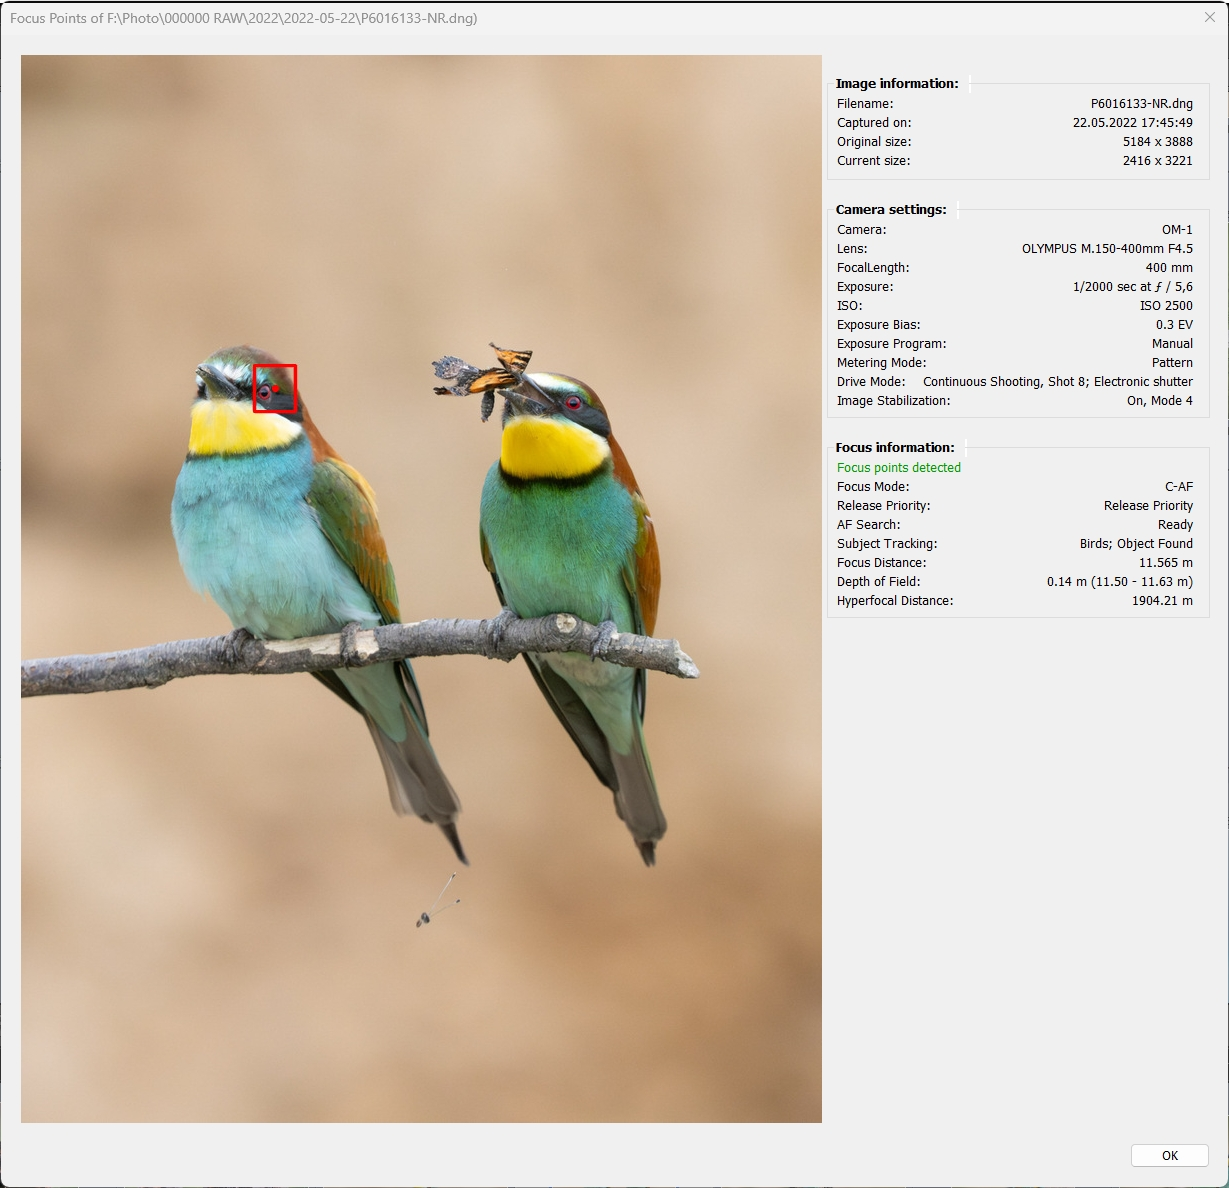
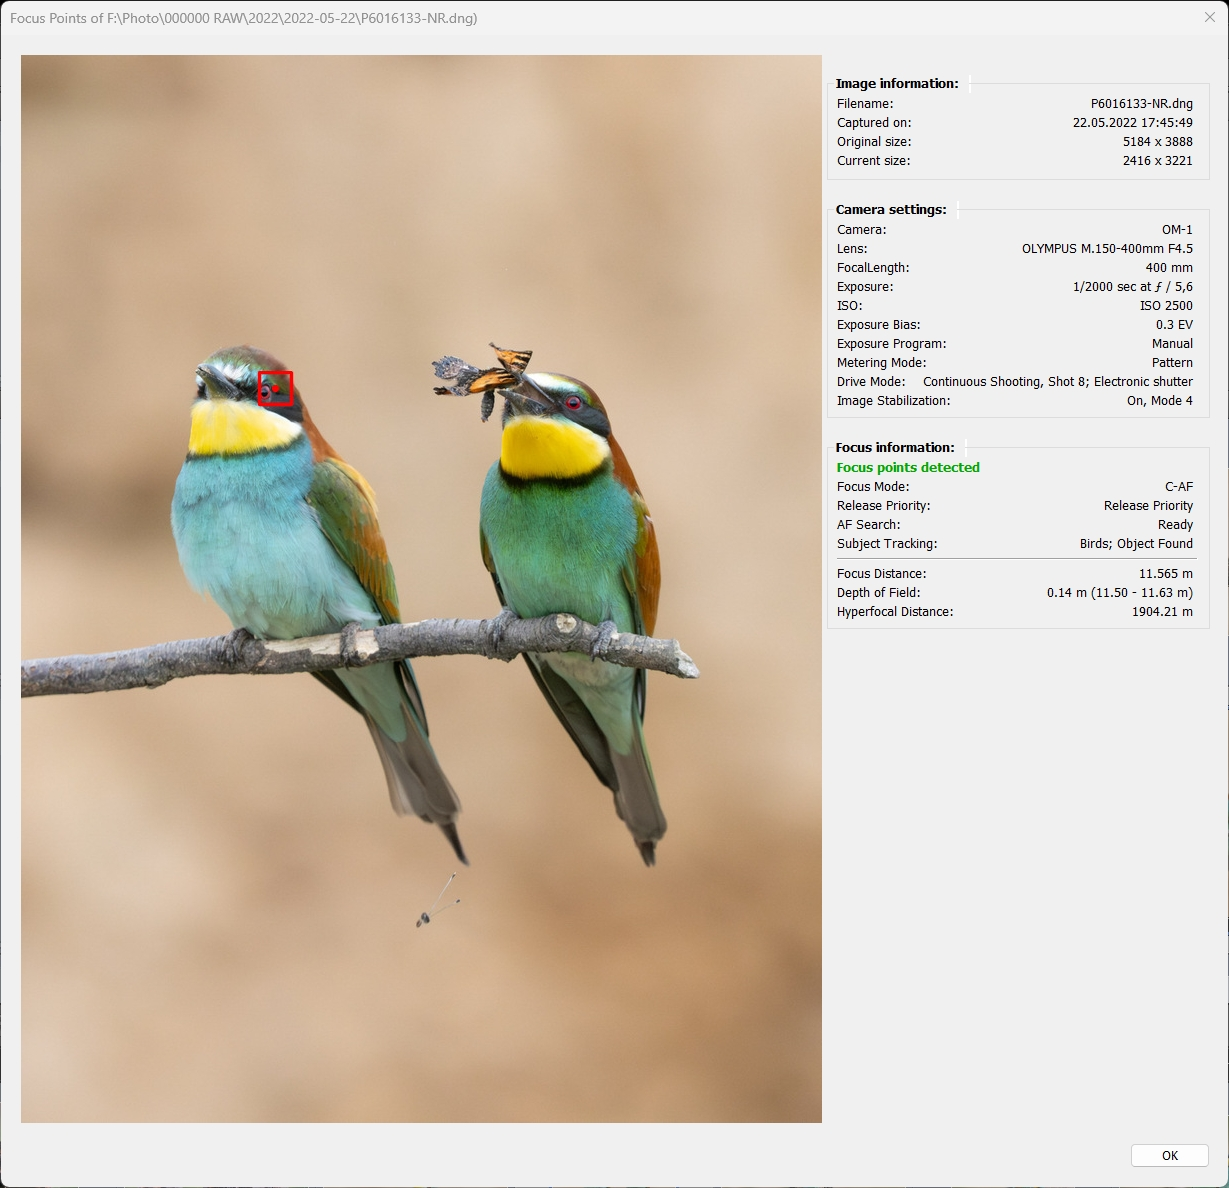
doc update

diff --git a/docs/Focus Points.md b/docs/Focus Points.md
@@ -8,34 +8,28 @@ A plugin for Lightroom Classic (LrC on Windows, macOS) to
 - display (EXIF) metadata of the selected image
 
 **Principle of operation:** <br>
-The plugin uses [exiftool](https://exiftool.org/) to retrieve metadata from the image file. 
-Autofocus related information is extracted from EXIF metadata and is processed to visualize the focus 
-points. In order for this to work, the plugin requires an image file that still has camera maker 
-specific metadata information (_makenotes_) included.
+The plugin uses [exiftool](https://exiftool.org/) to retrieve EXIF metadata from the image file. Autofocus related information is extracted from metadata and is processed to visualize the focus points. In order for this to work, the plugin requires an image file that has camera maker specific metadata information (_makenotes_) included.
 
 Note: exiftool comes as part of the plugin package and does not need to be installed separately. 
 
 The plugin will not be able to show focus points for image files that don't have makernotes included.<br> 
 For this it is important to understand that Lightroom does not read or keep makernotes when importing files.<br>
-Whenever a separate image file is created from the original, there is a risk that makernotes will not
-be present in this file and the plugin does not have the required inputs to work.
+Whenever a separate image file is created from the original file, there is a risk that makernotes will not be present in this file and the plugin does not have the required inputs to work.
 
 Examples, for which focus points cannot be displayed:
 - original image edited in Photoshop and returned as PSD or TIF
-- original image transferred as TIFF/JPG to a 3rd party editor, e.g. Topaz, NIK, Photomatix, Helicon
-- HDR DNG files created in Lightroom
+- original image transferred as TIFF/JPG to a 3rd party editor (Photo -> Edit In) and returned as TIF,<br> e.g. Topaz, NIK, Photomatix 
+- photos exported to harddisk
 
-For external applications that take a RAW file as input when started from Lightroom, 
-the plugin may work on the resulting file imported into Lightroom, if the application leaves makernotes 
-intact. 
+For external applications started from Lightroom that take a RAW file as input (invoked via  Plugin Extras), the plugin may work on the resulting file imported into Lightroom, if the application leaves makernotes intact. 
 
-Examples, for which focus point display works on image files created based on original files:  
+Examples, for which focus point display may work on image files created based on original files. Finally, this depends on the specific camera make/model:
 - DNG files created by DxO PhotoLab, Luminar Neo, Topaz Photo AI
 - DNG files created by LrC Enhance, e.g. AI Denoise
 
 Other cases where the Focus Points plugin will not be able to display meaningful information:
 
-* the picture has been taken by focusing on the main subject, then panning the camera to get the desired composition
+* the picture has been taken by focusing on the main subject, then panning the camera to get the desired composition.
 <br>
 
 ## 2. Overview and Basic Operation
@@ -51,131 +45,181 @@ Develop module:<br>
 "File -> Plug-in Extras -> Focus Point"<br>
 <br>
 <br>
-<b>User interface (single image operation):</b>
+#### User interface (single image operation): ####
 
 <img src="../screens/BasicOperation1.jpg" alt="User Interface (Single image)" style="width: 600px;"/>
 
-The window is split in two parts. The photo view with visualized focus points and display of selected 
-metadata information that is relevant for assessing the photo with respect to focus results.<br>
-The metadata section comprises three groups:
-- Image information (from LrC)
-- Camera settings (from LrC)
-- Focus information (from EXIF maker notes)
+The window is split in two parts. The photo view with visualized focus points on the left and side-by-side on the right the display of selected metadata relevant information that may be helpful for assessing the photo with respect to focus results.<br>
 
-As both image information and camera settings come from the LrC catalog, this information is present 
-for every photo. Focus information is only present for those photos where the corresponding image file
-has the full metadata. See [Scope and Limitations](docs/Focus%20Points.md) for more detailed information.
+The information section comprises three groups:
+- Image information
+- Camera settings
+- Focus information
 
-If focus information is present for the photo and focus points have been detected this is indicated by a message 
-highlighted in green.
+Parts of image information and camera settings come from the LrC catalog, so this information is present for every photo. These sections may be extended by camera specific items like crop mode, drive mode etc, depending on the availabity of information in makernotes.  
 
-In case focus information is missing or no focus points have been detected (e.g. for manually focused photos)
-this will be indicated by a message in red letters:
+Focus information is only present for those photos where the corresponding image file has full metadata included. See [Scope and Limitations](docs/Focus%20Points.md) for more detailed information.
+<br>
+<br>
+
+
+#### Depth of Field, Hyperfocal Distance ####
+Even though 'Depth of Field' and 'Hyperfocal Distance' are part of the "Focus Information" group, this information is displayed for most makers (except Fuji and Apple). The plugin displays this subsection always in the same format, that's why it's covered here.
+
+Most cameras include Focus Distance information in makernotes. ExifTool uses this information to calculate Depth of Field (DoF) which can be helpful to assess whether the lens has been stopped down enough to capture a subject 'acceptably sharp', i.e. whether the desired portion of the subject is 'in focus'. ExifTool also calculates Hyperfocal distance, which can help to assess if for photos that should be sharp from front to back (e.g. landscapes) autofocus has been aimed at a proper distance.
+
+Note that the precision of Focus Distance values is limited. Cameras are not designed to measure distances. The values given in EXIF data are by-products of the focusing process, derived from control information to send the lens to a certain distance. Such focus step counts can be converted approximately into a distance. While this information is likely to be  inaccurate especially in extreme conditions (in macro range or towards infinity), it is usually good enough to be used in DoF considerations for 'normal' distances.
+
+Technical note: ExifTool creates pseudo tags DepthOfField and HyperfocalDistance which can be seen in ExifTool output. For calculation of DoF it uses the standard circle of confusion parameter* for the respective sensor. In this context, the term “sharpness” refers to the ability of the human eye to recognize and resolve details when an image is viewed at full size, i.e. not enlarged, also known as “pixel peeping”. 
+
+Example: DoF in this capture is only ~2 cm, so with the chosen aperture of f/1.8 the eyes will be outside the sharp zone if the shot is focused on the front whiskers.
+
+<img src="../screens/BasicOperation5.jpg" alt="User Interface (Single image)" style="width: 600px;"/>
+
+
+<br>
+<br>
+
+#### User Messages ####
+
+If focus information is present for the photo and focus points have been detected this is indicated by a message highlighted in green.
+
+In case focus information is missing or no focus points have been detected (e.g. for manually focused photos) this will be indicated by a message in red letters:
 
 <img src="../screens/BasicOperation2.jpg" alt="User Interface (Single image)" style="width: 600px;"/>
 
 <img src="../screens/BasicOperation3.jpg" alt="User Interface (Single image)" style="width: 600px;"/>
 
-After the window is closed (by clicking "OK" or pressing \<Enter> or \<Esc>) the user is back in LrC UI.
+The window can be closed by clicking "OK" or pressing \<Enter> or \<Esc> or \<Space>.
 <br>
 <br>
 <b>User interface (multi-image operation):</b>
 
-When run on a selection of photos, the user interface of Focus Point Viewer offers two additional buttons
-that enable the user to move forwards and backwards within the series of selected photos.
+When run on a selection of photos, the user interface of Focus Point Viewer offers two additional buttons that enable the user to move forwards and backwards within the series of selected photos.
 
-The window can be closed by clicking "Exit" or pressing \<Enter> or \<Esc>.
+The window can be closed by clicking "Exit"  or pressing \<Enter> or \<Esc> or \<Space>.
 
 <img src="../screens/BasicOperation4.jpg" alt="User Interface (Multi-image)" style="width: 600px;"/>
+<br>
+<br>
 
 #### 2.1.1 Configuration and Settings
 
-Selecting Focus Point Viewer in the list of installed plugins display the plugin settings page:    
+Selecting Focus Point Viewer in the list of installed plugins (Library module, File -> Plug-in Manager) displays the plugin's preferences page:    
 
 <img src="../screens/Plugin Options.jpg" alt="User Interface (Single image)" style="width: 600px;"/>
 
+
 **Screen Scaling**
-Windows only: Select the display scaling factor. In order to avoid that the plugin window gets 
-bigger than the size of the screen this setting should be same or similar to the Windows configuration
-(Settings -> Display -> Scale). The default is 100%. 
+
+ _Display scaling factor_<br> 
+Windows only. In order to avoid that the plugin window can get bigger than the size of the screen this setting should be same or similar to the Windows configuration (Settings -> Display -> Scale). The default is 100%. 
 
 **Viewing Options**
 
-_Size of focus box for 'focus pixel' points_  
-Depending on the camera maker, focus points can have dimension (width and height), forming a focus box. 
-Some makers represent focus points by a single 'focus pixel'. To accomplish visibility, focus pixels will 
-be represented by a focus box. You can choose whether the box shall be small or medium/large with a center dot.  
+_Size of focus box for 'focus pixel' points_<br> 
+Depending on the camera maker, focus points can have dimension (width and height), thus forming a focus box. Some makers represent focus points by a single 'focus pixel'. To ensure their visibility, such focus pixel points are represented by a focus box. You can choose whether the box shall be small or medium/large with a center dot.
 
-_Color of in-focus points_  
-You can choose between three different colors for the presentation of focus point boxes: red, green and blue.
+_Color of in-focus points_<br> You can choose between three different colors for the presentation of focus point boxes: red, green and blue.
 
 **Logging**
-In case the plugin doesn't work as expected, the progress can be logged to help pinpointing where things went
-wrong. Use these controls to set the logging level (Info, Warning, Error, Debug) and open a log file that 
-has just been created.
+
+In case the plugin doesn't work as expected, the progress can be logged to help pinpointing where things went wrong. Use these controls to set the logging level (Info, Warning, Error, Debug) and open a log file that has just been created.
 
 
 ### 2.2 Metadata Viewer
-to be documented
+Will be documented later
 
 ## 3. Display of Focus Points
-The subchapters in this section describe in more detail which focus point features are supported by the plugin for individual camera makers and specific lines or models. This can be different colors for different statuses (e.g. focus point selected, in focus, inactive), or face/subject detection frames. The level to which features can be supported ultimately depends on the availability of corresponding data in EXIF maker notes.
+The subchapters in this section describe in more detail which focus point features are supported by the plugin for individual camera makers and specific lines or models. This can be different colors for different statuses (e.g. focus point selected, in focus, inactive), or face/subject detection frames. The level to which such features can be supported ultimately depends on the availability of corresponding data in EXIF maker notes.
 
 Even if certain data is stored by a camera maker it doesn't mean at the same time that it's "available". 
-Makernotes is a proprietary metadata section that contains manufacturer-specific information that is not standardized across different brands. Camera makers can use this information to diagnose camera issues, for instance.
+_Makernotes_ is a proprietary metadata section that contains manufacturer-specific information that is not standardized across different brands. Camera makers can use this information to diagnose camera issues, for instance.
 
-The Focus Points plugin fully relies on what [exiftool](https://exiftool.org/) is able to decode and display. Which in turn doesn't fall from the sky, but it's a collaborative effort by camera owners worlwide that are willing to contribute and [go where no man has gone before](https://exiftool.org/#boldly) and decode the unknown.      
+The Focus Points plugin fully relies on what [ExifTool](https://exiftool.org/) is able to decode and display. Which in turn doesn't fall from the sky, but it's a collaborative effort by camera owners worlwide that are willing to contribute and [go where no man has gone before](https://exiftool.org/#boldly) and decode the unknown.      
 
 ## 3.1 Nikon
 
-The logic for interpreting Nikon-specific autofocus data has been adapted to match the focus point display 
-of NX Studio and Capture NX-D. While this is not rocket science for Nikon Z, it has been a challenge for Nikon 
-DSLRs. Nikon used to store different kind of focus point information in different places, making it difficult
-for the people maintaining exiftool to figure out the relevant information and name it consistently.
-I would like to take this opportunity to thank Warren Hatch for his great support in deciphering and correctly
-interpreting the Nikon AF information! 
+The logic for interpreting Nikon-specific autofocus data has been adapted to match the focus point display of NX Studio and Capture NX-D. While this is not rocket science for Nikon Z, it has been a real challenge for Nikon DSLRs. For these, Nikon stores different kind of focus point information in different places, making it difficult for those maintaining ExifTool to figure out the relevant information and name it consistently. I would like to take this opportunity to thank Warren Hatch for his great support in deciphering and correctly interpreting the Nikon AF information! 
+
+Nikon focus point information in EXIF metadata always refer to an area within the frame. For CAF results these are the coordinates (x,y, height, width). For PDAF results it's the name(s) of focus points (e.g. A1, C6, E4), which the plugin maps to the corresponding pixel coordinates. 
+
+Hence, for Nikon focus points, you can select the color of the box but not their size.
+
+Nikon metadata does not include details on face or subject detection, that's why you won't see any corresponding detection frames. This does not mean that this information is not existing in the file - it simply has not been decoded yet by maintainers and active supporters of ExifTool.
+
 
 ### 3.1.1 Nikon DSLR
 
 Nikon DSLRs usually feature two autofocus systems. A high performance phase detect autofocus (PDAF) and
 a slower contrast autofocus when using live view.
 
-Position and size of PDAF focus points are determined by the individual sensor AF layout of the camera model.
-PDAF points cover only a portion of the frame. For DSLRs with their limited focus coverage, the entire matrix
-of focus points is visualized along with the in-focus point.
+Position and size of PDAF focus points are determined by the individual sensor AF layout of the camera model. PDAF points cover only a portion of the frame. For DSLRs with their limited focus coverage, the entire matrix of focus points is visualized along with the in-focus point.
 
-Single Area shot:
+Example - Single Area shot:
 
 <img src="../screens/Nikon 1.jpg" alt="User Interface (Multi-image)" style="width: 800px;"/>
 
-Group Area shot:
+Example - Group Area shot:
 
 <img src="../screens/Nikon 3.jpg" alt="User Interface (Multi-image)" style="width: 800px;"/>
 
-For Contrast AF, the size of the focus "point" (it's usually rather a big box) varies, depending on the shooting
-conditions:
+For Contrast AF, the size of the focus "point" is a larger box that varies, depending on the shooting conditions:
 
 <img src="../screens/Nikon 2.jpg" alt="User Interface (Multi-image)" style="width: 800px;"/>
 
 
 ### 3.1.2 Nikon Mirrorless
 
-Nikon Mirrorless cameras feature a hybrid autofocus system, where PDAF and CAF cooperate to achieve fast and 
-precise focus. While earlier models like the Z6 produced a fair amount of images with PDAF results, those
-images become rare in modern cameras like the Z9, with CAF technology getting more capable.
+Nikon Mirrorless cameras feature a hybrid autofocus system, where PDAF and CAF cooperate to achieve fast and precise focus. While earlier models like the Z6 produced a fair amount of images with PDAF results, those images become rare in modern cameras like the Z9, with CAF technology getting more capable.
 
-Contrast AF:
+Early Z models feature a 81-point (9x9) PDAF, for Z8/Z9 this has grown to 493 points (27x15). In contrast to DSLRs, the information about inactive (not used) focus points is less useful here, so it is not displayed.
+
+Example for Contrast AF (with subject detection "People"):
 
 <img src="../screens/Nikon 4.jpg" alt="User Interface (Multi-image)" style="width: 800px;"/>
 
 
-Phase Detect AF (PDAF):
+Example for Phase Detect AF (PDAF):
 
 <img src="../screens/Nikon 5.jpg" alt="User Interface (Multi-image)" style="width: 800px;"/>
 
 ## 3.2 Canon
 
-V2.5 - to do
+Canon focus point information in EXIF metadata always refers to an area within the frame. Focus point areas are given by their coordinates (x,y, height, width).
+
+Hence, for Canon focus points, you can select the color of the box but not the size.
+
+Canon metadata does not include details on face or subject detection, that's why you won't see any corresponding detection frames. This does not mean that this information is not existing in the file - it simply has not been decoded yet by maintainers and active supporters of ExifTool.
+
+Unlike many other makers, Canon does not give a single focus distance value, but a pair of values for lower and upper indicating the range.
+
+
+### 3.2.1 Canon DSLR
+
+As with Nikon, Canon DSLRs support both PDAF and CAF. The position and size of PDAF focus points are determined by the individual sensor AF layout of the camera model. 
+
+PDAF-focused shot with multiple focus points used:
+
+<img src="../screens/Canon 1.jpg" alt="User Interface (Multi-image)" style="width: 800px;"/>
+
+CAF-focused shot using the 'green' color setting for better visibility:
+
+<img src="../screens/Canon 2.jpg" alt="User Interface (Multi-image)" style="width: 800px;"/>
+
+
+### 3.1.2 Canon Mirrorless
+
+As with Nikon, Canon mirrorless models feature a hybrid autofocus system. However, in terms of focusing information stored in EXIF, the cooperation of PDAF and CAF is transparent. You can find the x, y positions of the focus point area(s) used to focus the shot as well as their width and height always in the same format.
+
+Shot with 'Animal' subject detection:
+<img src="../screens/Canon 3.jpg" alt="User Interface (Multi-image)" style="width: 800px;"/>
+
+When capturing flat subjects, focus point display for Canon R-series can be funny sometimes: 
+
+<img src="../screens/Canon 4.jpg" alt="User Interface (Multi-image)" style="width: 800px;"/>
+
+Remark: The display of "AF Tracking Sensitivity" and "AF Point Switching" in the above screenshot indicate that the respective values have not been properly decoded by ExifTool. If you suspect such decoding issue and would really like to see the real values, you can help to fix it by creating a topic in ExifTool Forum, describing it and be prepared to provide sample images. ExifTool is very well maintained and likelihood is big that issues brought to notice will be quickly fixed (unless the topic is difficult).   
 
 ## 3.3 Sony
 
@@ -183,11 +227,35 @@ to be updated with release of V2.6
 
 ## 3.4 Fuji
 
-V2.5 - to do
+Fuji is the king of autofocus metadata. For no other camera maker there is so comprehensive information on focus points and subject detection available in EXIF as for Fuji. No matter if a detected subject was a human, an animal, a bike, car, aircraft or train and the detected eye was a real eye or a cockpit - all information to visualize a detected subject and the parts of it is stored in the same place and format.
 
-## 3.5 Olympus / OMSystem
+Fuji focus points are 'focus pixel' points without a dimension that is linked to the focusing process. For improved visualization you can choose focus box size and color in the plugin's preferences. 
 
-V2.5 - to do
+Example shot for face detection (2 persons with their heads, faces, and eyes detected).
+
+<img src="../screens/Fuji 1.jpg" alt="User Interface (Multi-image)" style="width: 800px;"/>
+
+Example shot for subject detection. 4 birds  detected (with different levels of details): 
+
+<img src="../screens/Fuji 2.jpg" alt="User Interface (Multi-image)" style="width: 800px;"/>
+
+
+## 3.5 Olympus / OM System
+
+Olympus and their successor OM System have been using the same format of storing autofocus information in EXIF for all mirrorless cameras, so focus point display for all of their models is the same.
+
+Olympus / OM System belongs to the 'focus pixel' point group of camera makers. Focus box size and color can be adjusted in the plugin's preferences.
+
+Olympus makernotes does contain data on face detection. However, the necessary details of this information are not present in Exiftool standard output which is the current basis for the plugin to work. A future version of the plugin might use Exiftool in 'stay-open' mode, which could bring a number of improvements, including query of any kind of metadata information.
+
+Compared to the display of focus points in OM Workspace, there are sometimes slight deviations. This is due to the fact, that Exiftool standard output as used by the plugin contains the focus point coordinates as a string "(x%,y%)" with 0 < x,y 100 giving the position in percent of width and height of the frame. In fact, metadata contains pixel precise informion, so there could be a rounding error up to 0.5% ~ 26px on the long edge, 20px on the short edge. While it is not critical for practical applications, using exiftool in 'stay-open' mode would also help to solve this issue.    
+
+<img src="../screens/Olympus 1.jpg" alt="User Interface (Multi-image)" style="width: 800px;"/>
+
+Using the focus box settings the display of the focus point can be tweaked to look like Olympus / OM shooters are used to it from OM Workspace application: 
+
+<img src="../screens/Olympus 2.jpg" alt="User Interface (Multi-image)" style="width: 800px;"/>
+
 
 ## 3.6 Panasonic
 
@@ -202,3 +270,8 @@ to be updated with release of V2.6
 ## 3.7 Apple
 
 to be updated with release of V2.6
+
+
+## Glossary
+
+to be created

diff --git a/docs/changelog.md b/docs/changelog.md
@@ -28,7 +28,7 @@ Supported cameras:
 * Canon
   * Mirrorless: entire R-series
   * DSLR: all EOS models after 2004 (starting with EOS-1D Mark II)
-  * Powershot models after xxxx
+  * Powershot models after 2004
 
  
 * Fuji
